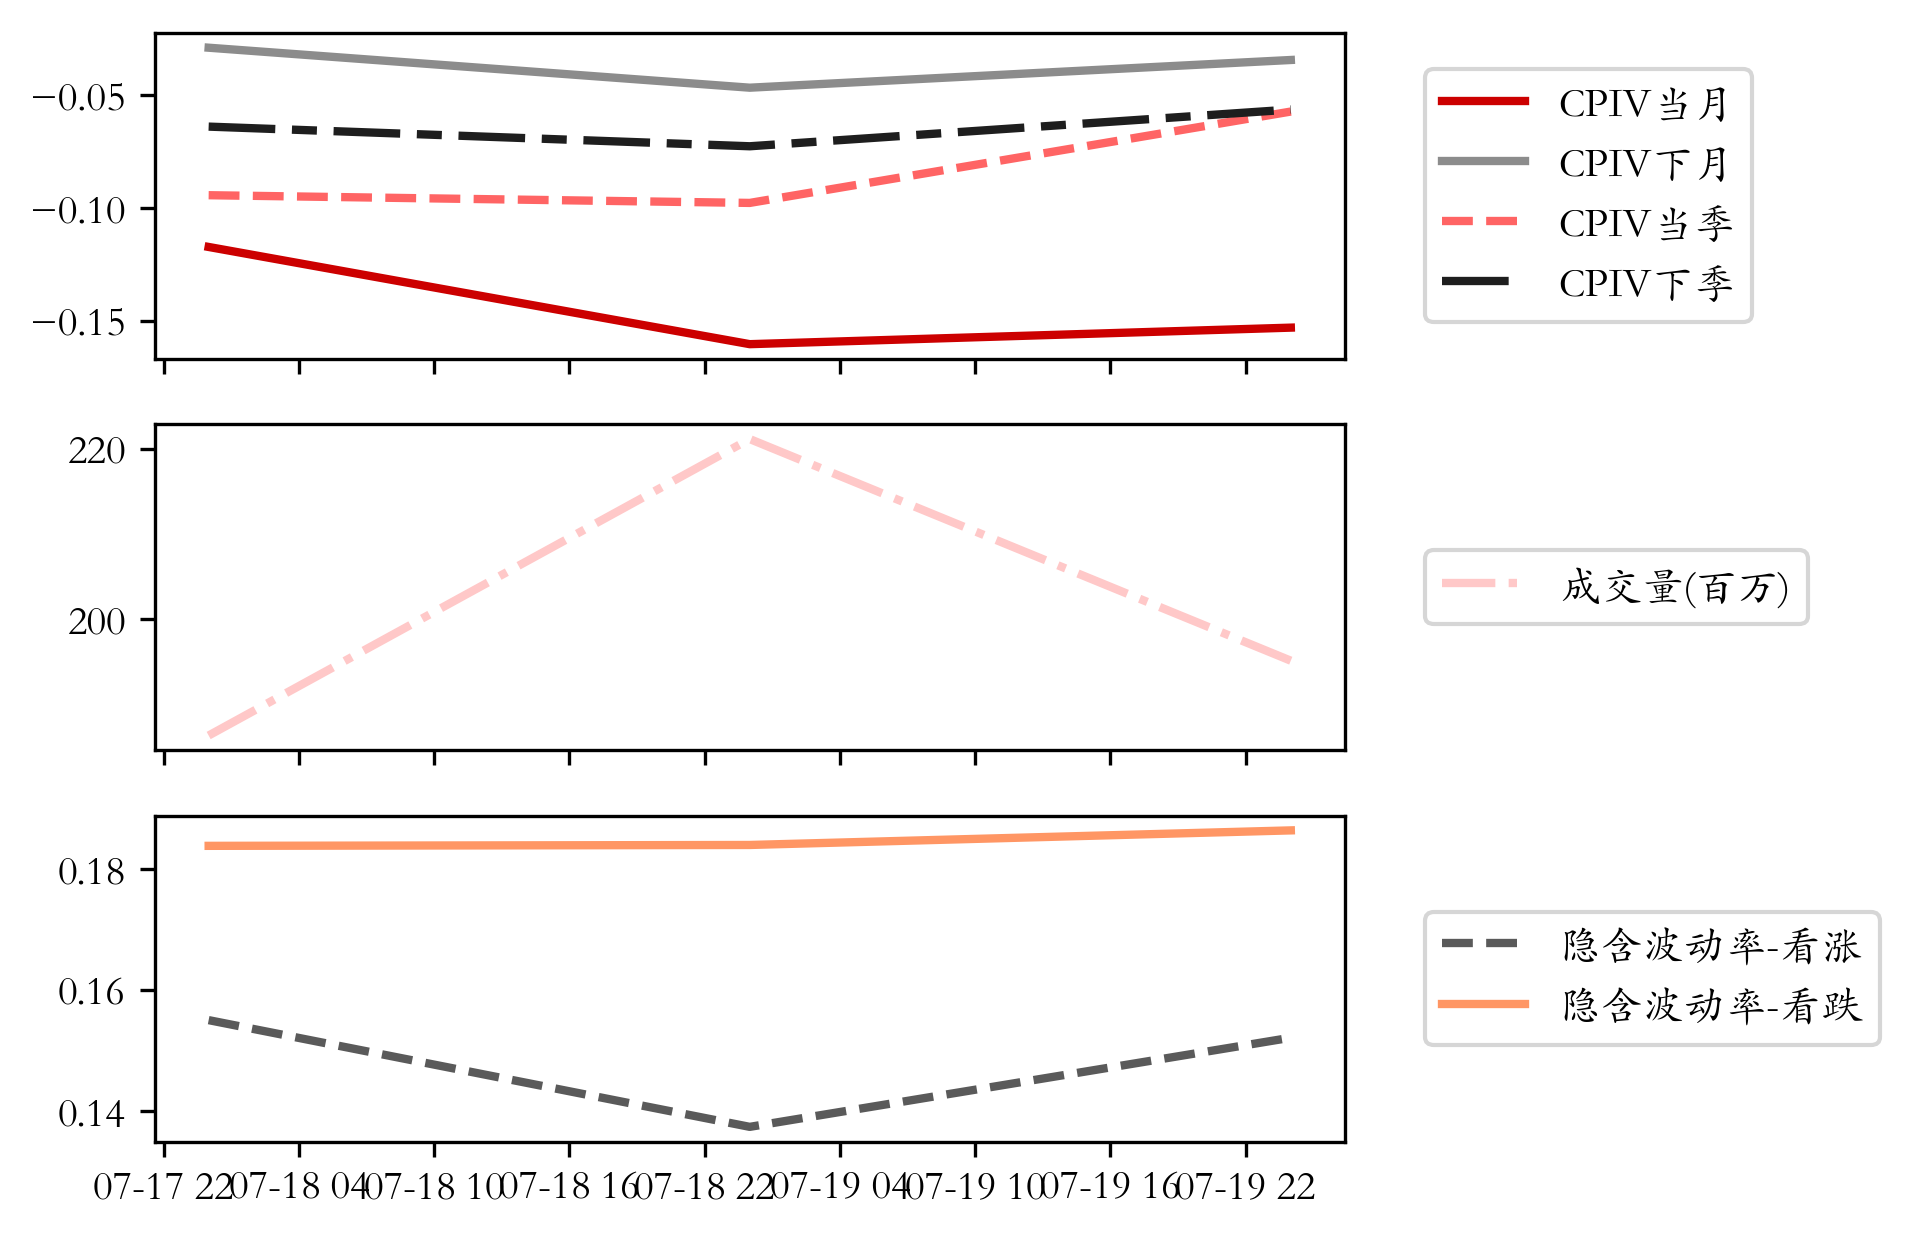
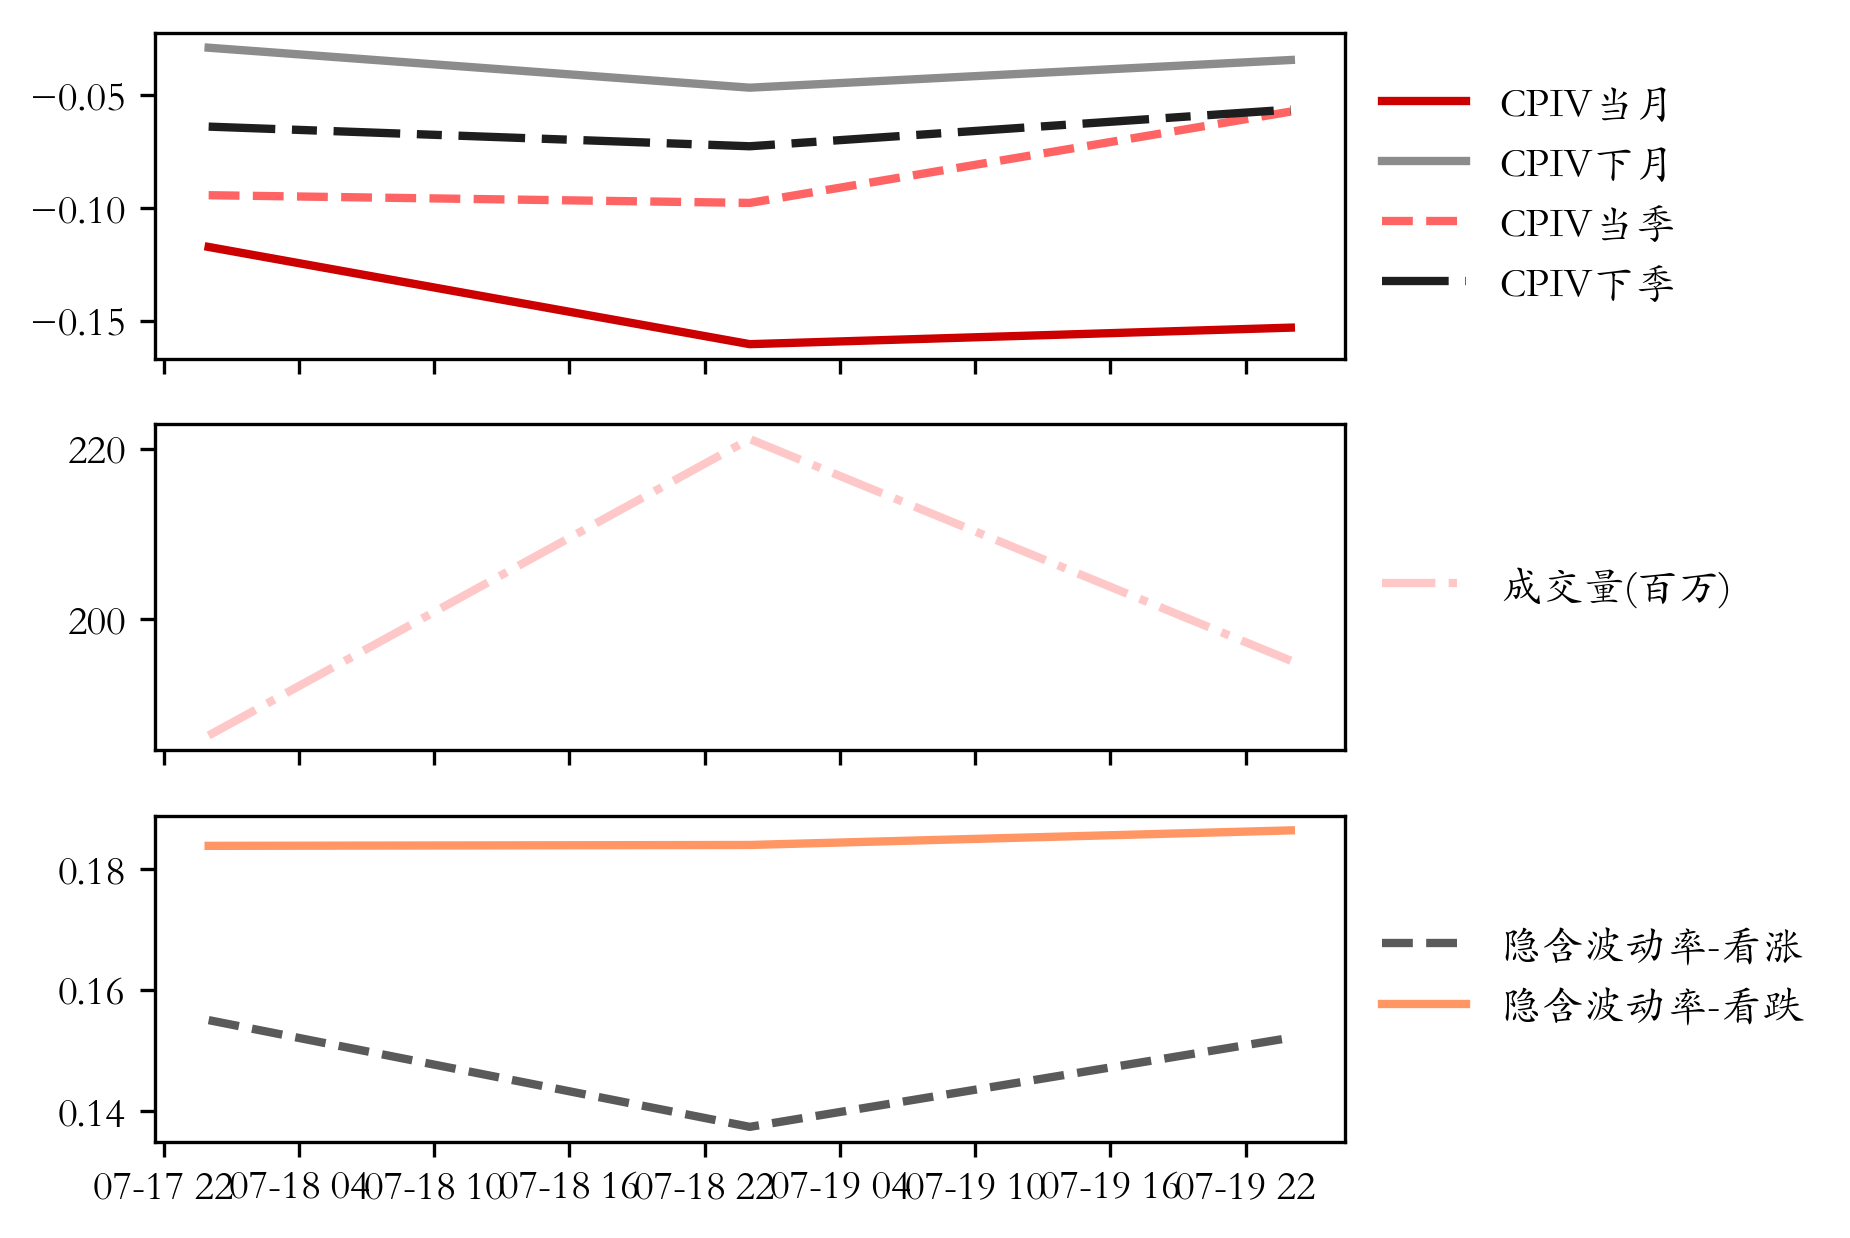
CPIV sum volum

diff --git a/t.py b/t.py
@@ -15,6 +15,7 @@ underlying_close    = [2.659, 2.702, 2.71]
 
 plt.rcParams['font.sans-serif'] = ['STKaiti']
 f, axarr = plt.subplots(3, sharex=True)
+
 #axarr[0].set_title(u"看涨看跌期权隐含波动率差(CPIV)")
 line1, = axarr[0].plot(dates, spread_this_month, color=pu.c1, linestyle=pu.l1, linewidth=2, label=u'CPIV当月')
 line2, = axarr[0].plot(dates, spread_next_month, color=pu.c2, linestyle=pu.l2, linewidth=2, label=u'CPIV下月')
@@ -30,15 +31,15 @@ line7, = axarr[2].plot(dates, putvol_next_month, color=pu.c7, linestyle=pu.l7, l
 box0 = axarr[0].get_position()
 axarr[0].set_position([box0.x0, box0.y0, box0.width * 0.8, box0.height])
 # Put a legend to the right of the current axis
-lgd0 = axarr[0].legend(loc='center left', bbox_to_anchor=(1, 0.5))
+lgd0 = axarr[0].legend(loc='center left', bbox_to_anchor=(1, 0.5),frameon=False)
 
 box1 = axarr[1].get_position()
 axarr[1].set_position([box1.x0, box1.y0, box1.width * 0.8, box1.height])
-lgd1 = axarr[1].legend(loc='center left', bbox_to_anchor=(1, 0.5))
+lgd1 = axarr[1].legend(loc='center left', bbox_to_anchor=(1, 0.5),frameon=False)
 
 box2 = axarr[2].get_position()
 axarr[2].set_position([box2.x0, box2.y0, box2.width * 0.8, box2.height])
-lgd2 = axarr[2].legend(loc='center left', bbox_to_anchor=(1, 0.5))
+lgd2 = axarr[2].legend(loc='center left', bbox_to_anchor=(1, 0.5),frameon=False)
 
 f.savefig('image_output.png', dpi=300, format='png', bbox_extra_artists=(lgd0,lgd1,lgd2,), bbox_inches='tight')
 #axarr[3].legend()
